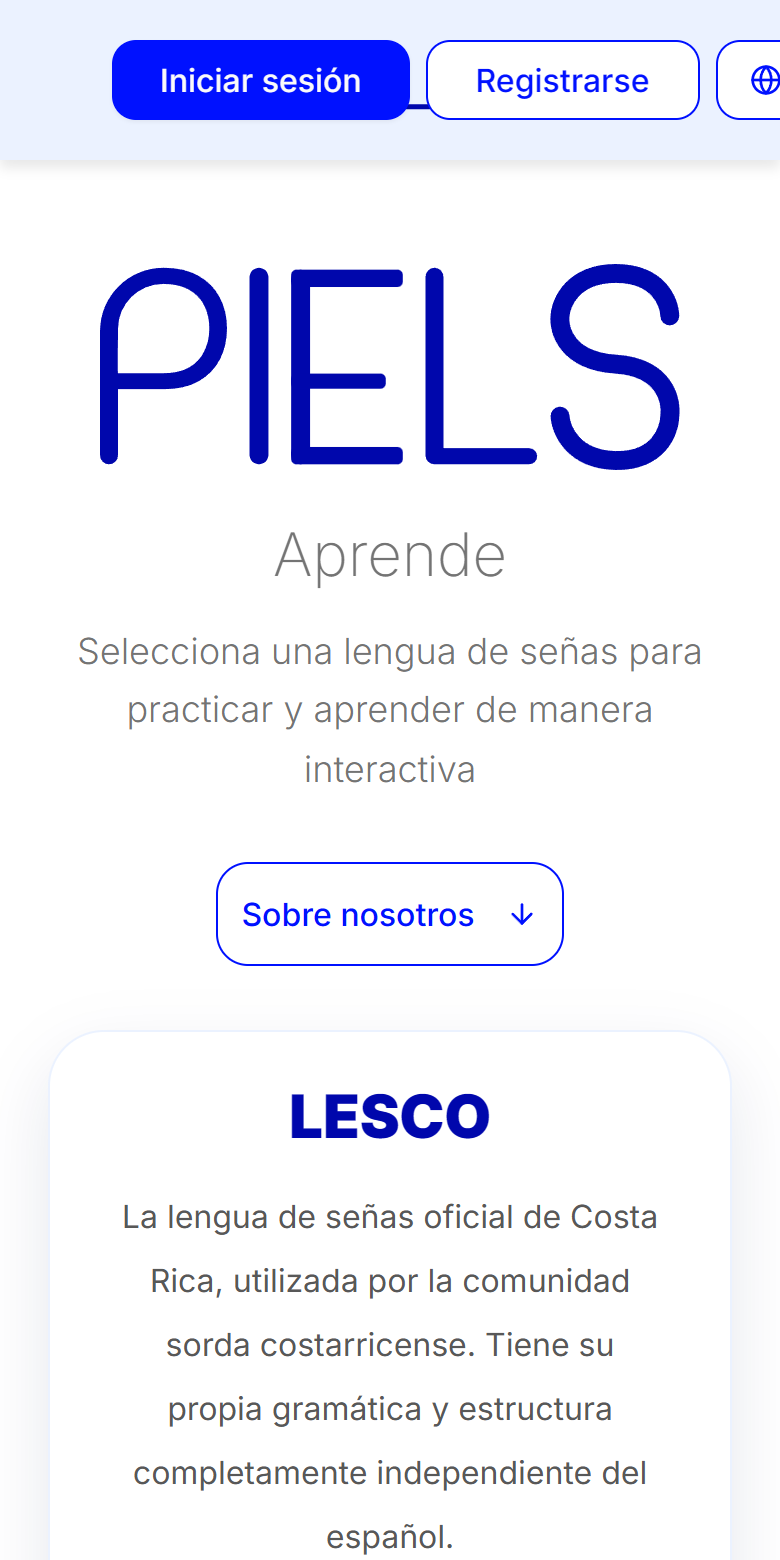
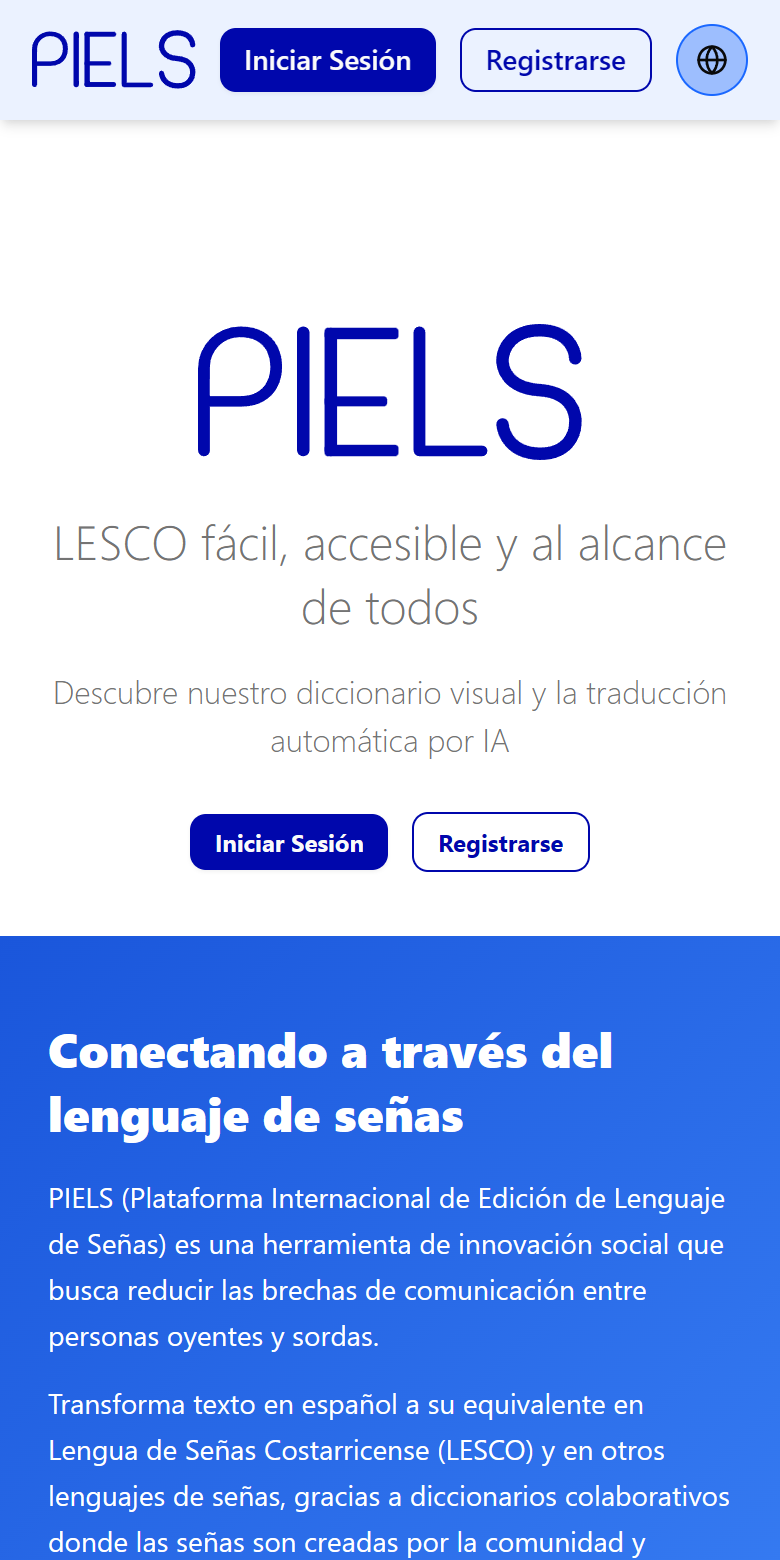
[FIX] Point PIELS to inclutec.org
Use https://www.inclutec.org/welcome as the PIELS link and replace
both PIELS screenshots with fresh captures of that site.

diff --git a/my-portfolio/src/data/data.js b/my-portfolio/src/data/data.js
@@ -111,7 +111,7 @@ export const PROJECTS = [
       es: "Plataforma full-stack para aprender lengua de señas con lecciones interactivas, seguimiento de progreso y gestión de usuarios.",
     },
     tags: ["React", "MongoDB", "Python", "Flask", "Expo Go", "Figma"],
-    link: "https://piels-learn.vercel.app",
+    link: "https://www.inclutec.org/welcome",
     image: "/images/PIELS.png",
     thumb: "/images/PIELS-mobile.png",
   },

diff --git a/my-portfolio/PRODUCT.md b/my-portfolio/PRODUCT.md
@@ -40,7 +40,7 @@ A versatile full-stack developer who ships complete, deployed products end to en
 
 ## Evidence on Hand
 
-- Live projects: PIELS (piels-learn.vercel.app), EDH Tournaments (edh-tournaments.vercel.app), Web 3D Inclusiva (web3dinclusiva.vercel.app). Screenshots in public/images/.
+- Live projects: PIELS (www.inclutec.org/welcome), EDH Tournaments (edh-tournaments.vercel.app), Web 3D Inclusiva (web3dinclusiva.vercel.app). Screenshots in public/images/.
 - CV PDF: public/PDF/PerezCotoJocsan_CV.pdf.
 - Profile photo: public/images/PerezCotoJocsan.png.
 - Live GitHub profile data via the public API.
